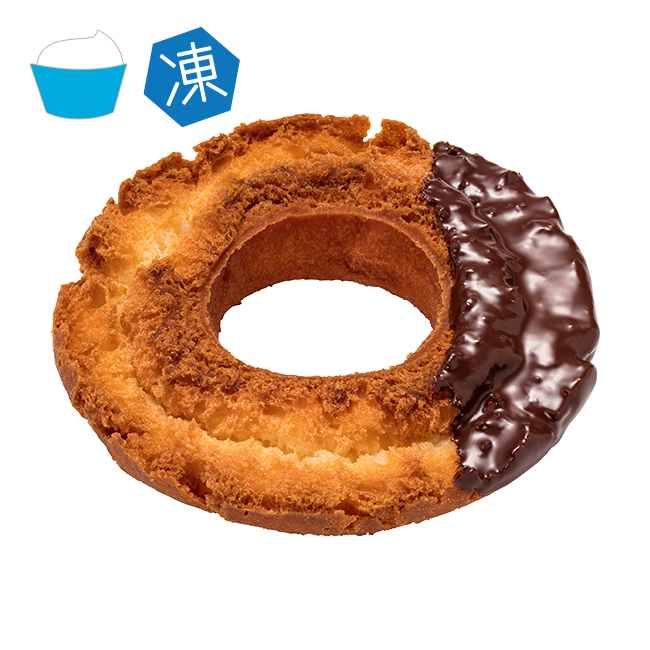
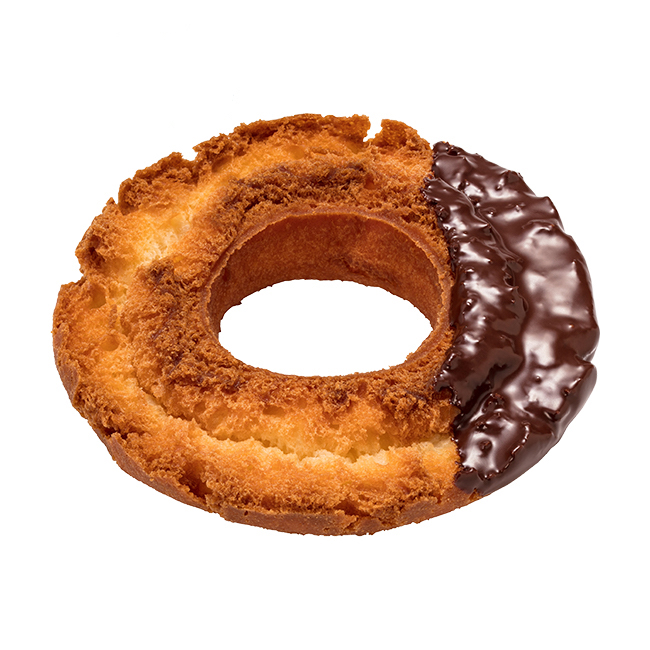
修掉巧克力歐菲香的圖片瑕疵

Changed region(s): [[0.0308, 0.0308, 0.3692, 0.2154]]

diff --git a/src/pages/Product/Product.css b/src/pages/Product/Product.css
@@ -88,7 +88,7 @@
 
 .Mars-prod-img {
     width: 295px;
-    height: 295p
+    height: 295px;
 }
 
 .Mars-prod-name {
